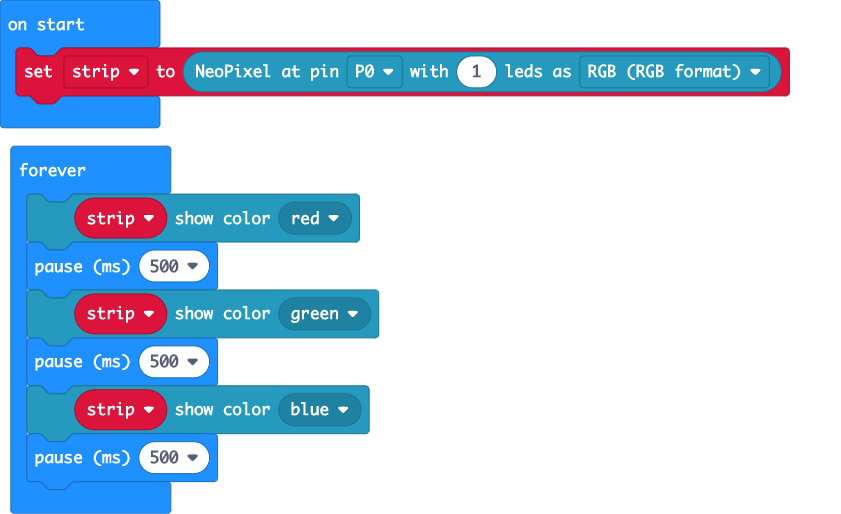
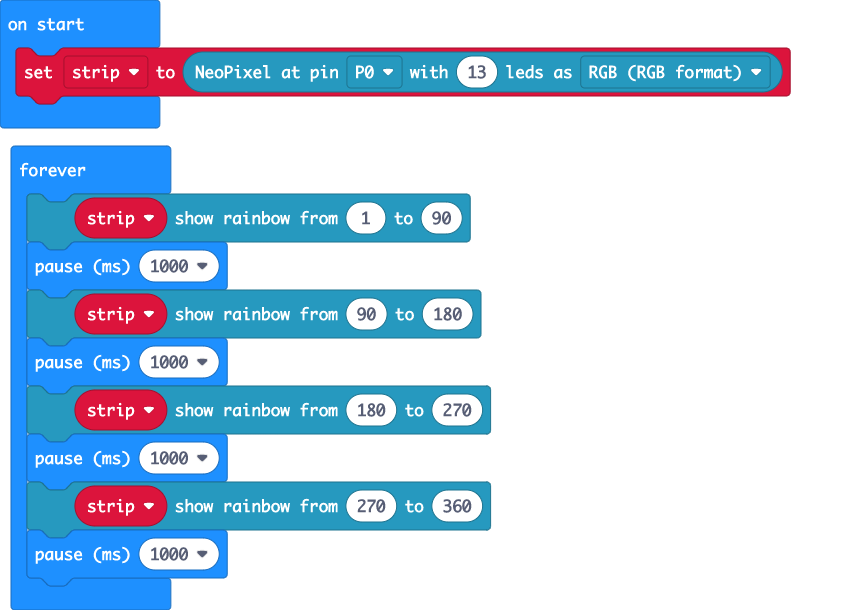
Update pxt.json, main.blocks, main.ts

diff --git a/main.ts b/main.ts
@@ -1,9 +1,11 @@
-let strip = neopixel.create(DigitalPin.P0, 1, NeoPixelMode.RGB_RGB)
+let strip = neopixel.create(DigitalPin.P0, 13, NeoPixelMode.RGB_RGB)
 basic.forever(function () {
-    strip.showColor(neopixel.colors(NeoPixelColors.Red))
-    basic.pause(500)
-    strip.showColor(neopixel.colors(NeoPixelColors.Green))
-    basic.pause(500)
-    strip.showColor(neopixel.colors(NeoPixelColors.Blue))
-    basic.pause(500)
+    strip.showRainbow(1, 90)
+    basic.pause(1000)
+    strip.showRainbow(90, 180)
+    basic.pause(1000)
+    strip.showRainbow(180, 270)
+    basic.pause(1000)
+    strip.showRainbow(270, 360)
+    basic.pause(1000)
 })
